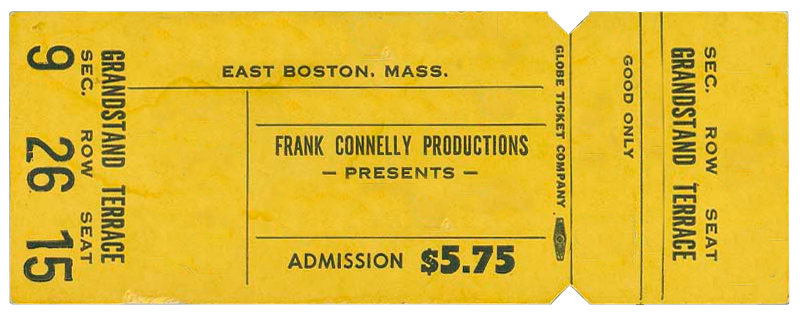
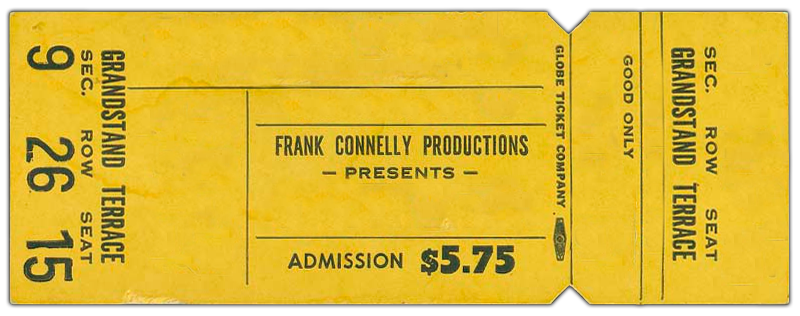
added venue, city and band name to ticket view

Changed region(s): [[0.0, 0.0, 1.0, 0.9968], [0.2812, 0.1709, 0.5625, 0.2848], [0.3125, 0.6551, 0.3438, 0.6835]]

diff --git a/app/assets/stylesheets/shows.css.scss b/app/assets/stylesheets/shows.css.scss
@@ -4,11 +4,45 @@
   .ticket-container {
     background-image: url("/assets/ticket.png");
     background-repeat: no-repeat;
-    height: 222px;
-    box-shadow: 2px -1px 64px black;
+    height: 276px;
     padding-top: 28px;
-    background-position: -10px -35px;
-    width: 778px;
+    background-position: -5px -5px;
+    width: 787px;
     border-radius: 2px;
+    position: relative;
+    margin-top: 33px;
+    .city {
+      position: absolute;
+      text-align: center;
+      width: 412px;
+      left: 124px;
+      top: 55px;
+      font-size: 1em;
+      color: rgba(41, 43, 66, 0.76);
+      font-weight: bold;
+      height: 1em;
+     }
+    .venue {
+      position: absolute;
+      text-align: center;
+      width: 412px;
+      left: 124px;
+      top: 24px;
+      font-size: 2.1em;
+      color: rgba(41, 43, 66, 0.76);
+      font-weight: bold;
+      height: 1em;
+     }
+    .band-name {
+      position: absolute;
+      text-align: center;
+      width: 303px;
+      left: 238px;
+      top: 193px;
+      font-size: 2em;
+      color: rgba(41, 43, 66, 0.76);
+      font-weight: bold;
+      height: 1em;
   }
+}
 }
